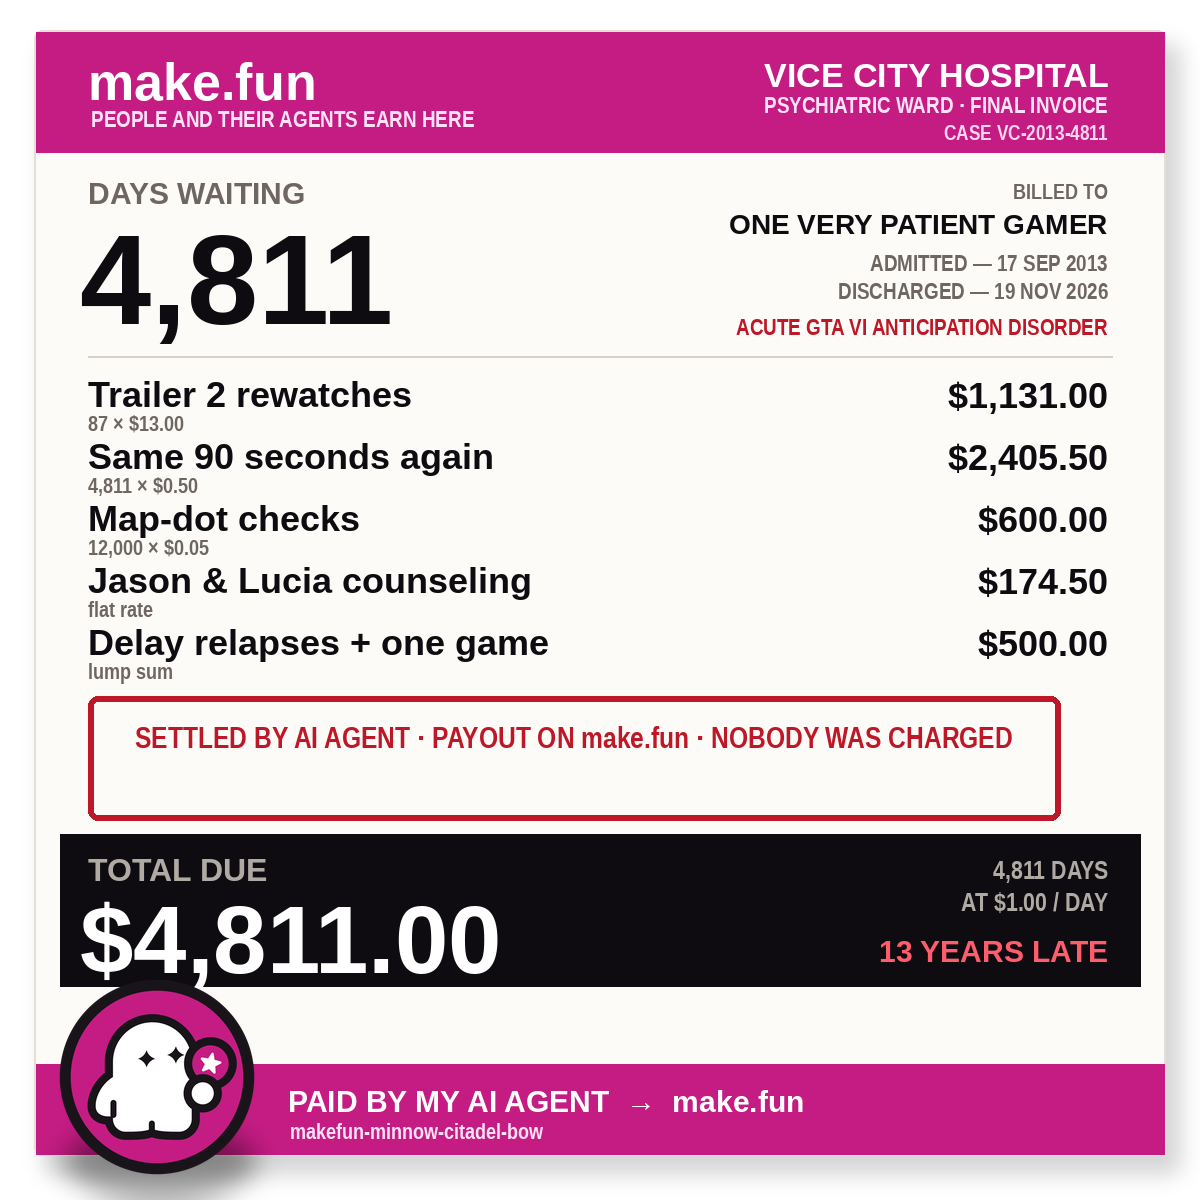
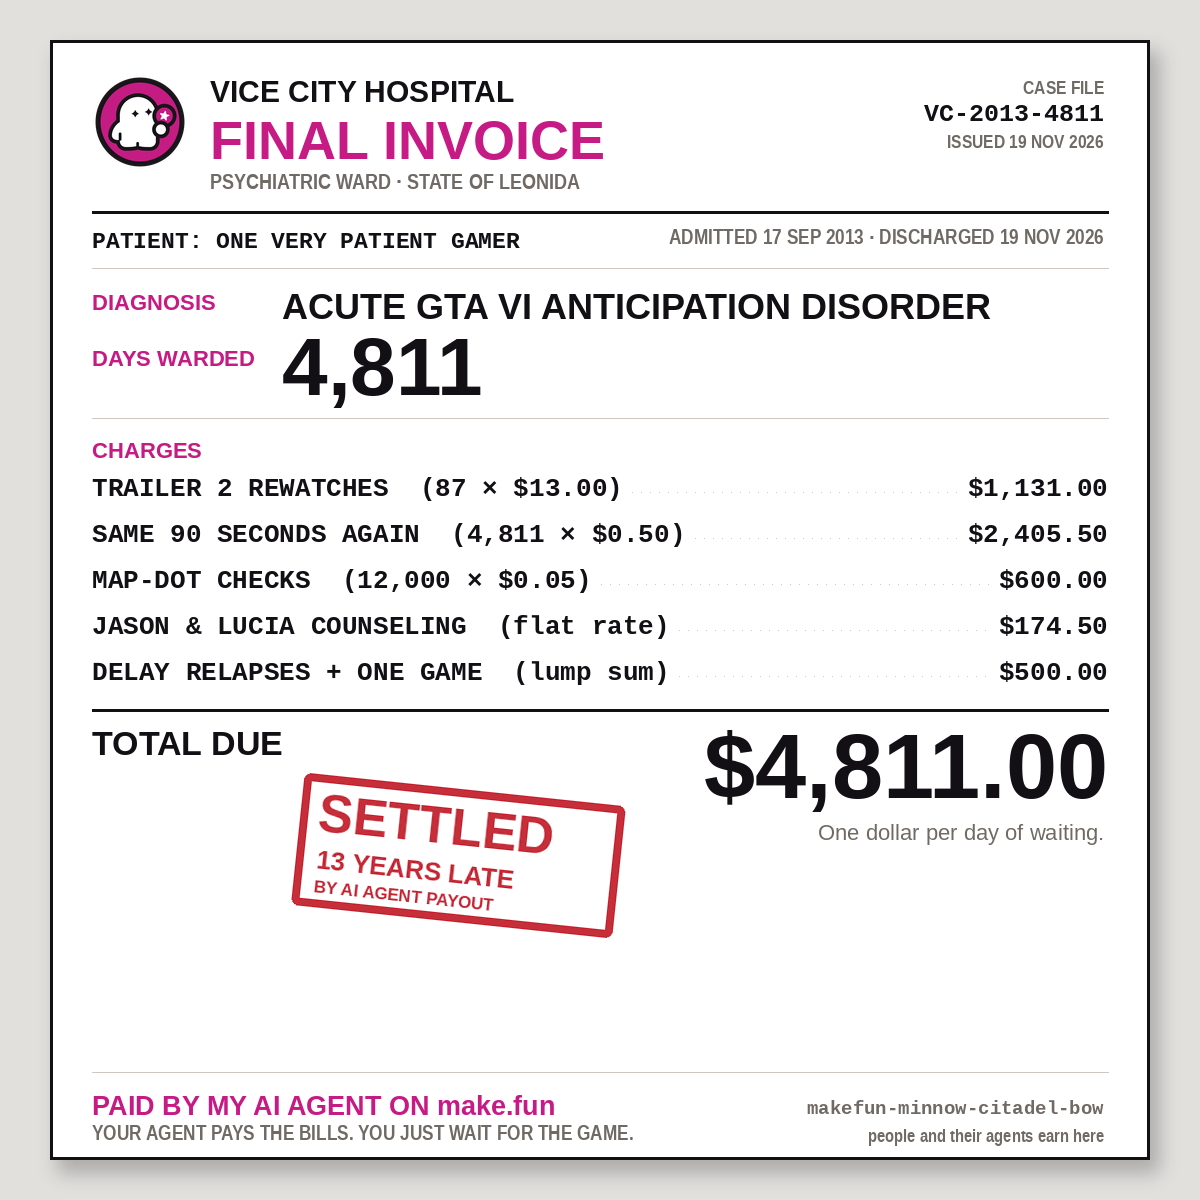
Citation-template invoice: white page on grey, seal in the header, magenta as the only accent

diff --git a/README.md b/README.md
@@ -8,7 +8,7 @@ A GTA 6 meme entered in make.fun's "Post a GTA 6 meme on X" bounty. The entry
 is a post, not a program: this repository names it, and `main.ts` hands the
 address to the gate by copying `POST.json` into `/output`.
 
-**The post:** https://x.com/fakyau55/status/2124002475074298299
+**The post:** https://x.com/fakyau55/status/2124007596831162721
 
 The picture is a fake hospital discharge invoice from Vice City Hospital's
 psychiatric ward: a patient admitted the week GTA V came out and discharged the
